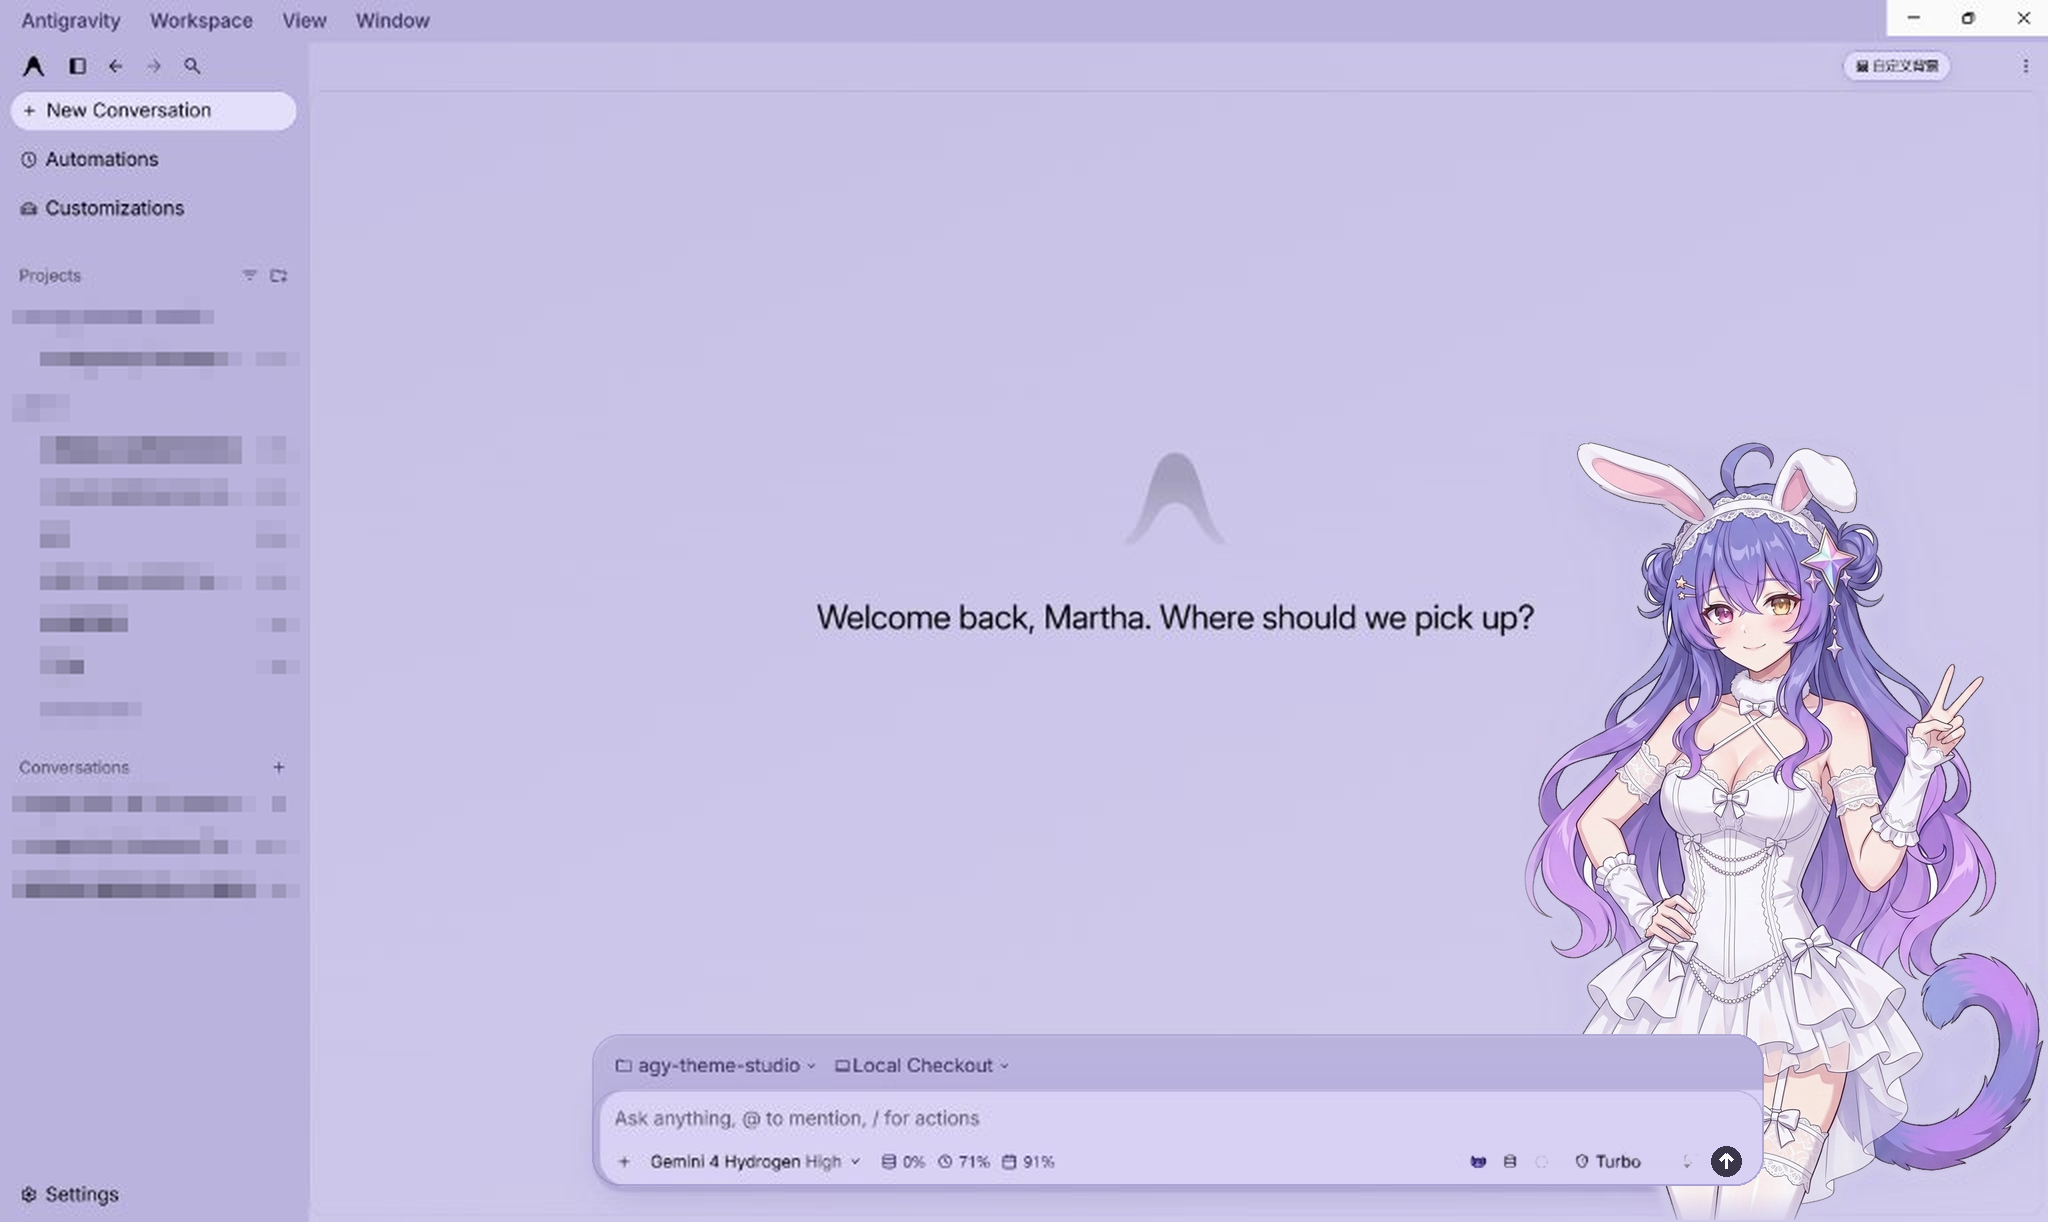
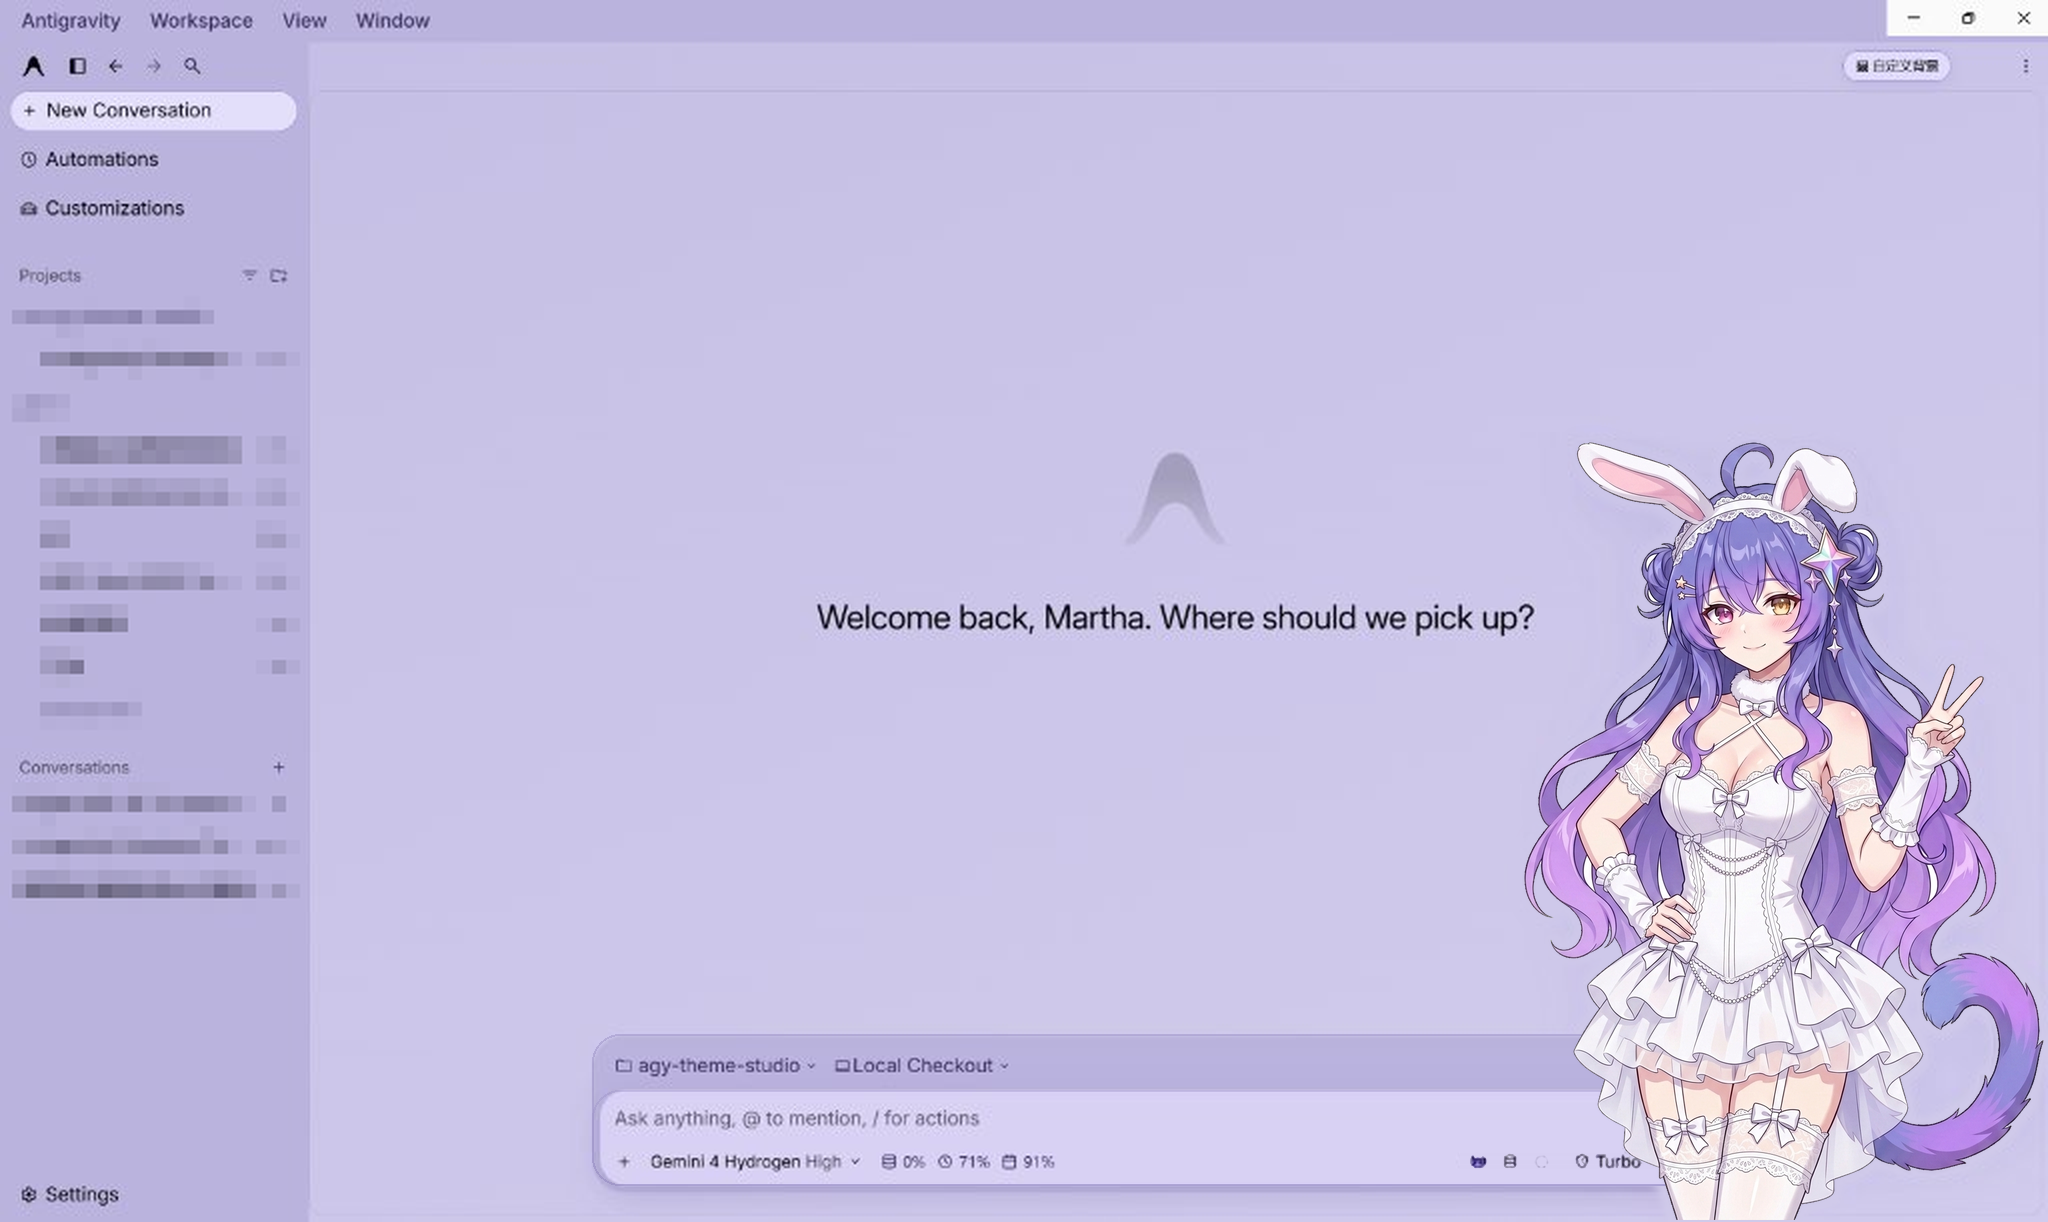
docs: 立绘不透明叠加输入栏上方，并调换安装方式一/二顺序

Changed region(s): [[0.75, 0.8396, 0.875, 1.0]]

diff --git a/README.md b/README.md
@@ -60,7 +60,7 @@
 
 ## 📦 快速安装
 
-### 方式二（推荐）：一键复制提示词给 Antigravity 自动安装
+### 方式一（推荐）：一键复制提示词给 Antigravity 自动安装
 
 不想手动配置或敲命令时，点击代码块右上角 **Copy** 复制下面这段提示词，直接发给 Antigravity 对话即可自动完成安装或更新：
 
@@ -69,7 +69,7 @@
 ```
 
 <details>
-<summary>💻 <strong>方式一：终端一行命令自动安装 / 更新（支持 Windows / macOS / Linux）</strong></summary>
+<summary>💻 <strong>方式二：终端一行命令自动安装 / 更新（支持 Windows / macOS / Linux）</strong></summary>
 <br />
 
 无需手动查找插件目录；无论是否安装过 `git`，脚本都会自动克隆、拉取更新或走压缩包安装，且**不会覆盖 `sidecar_data` 个人配置**。
